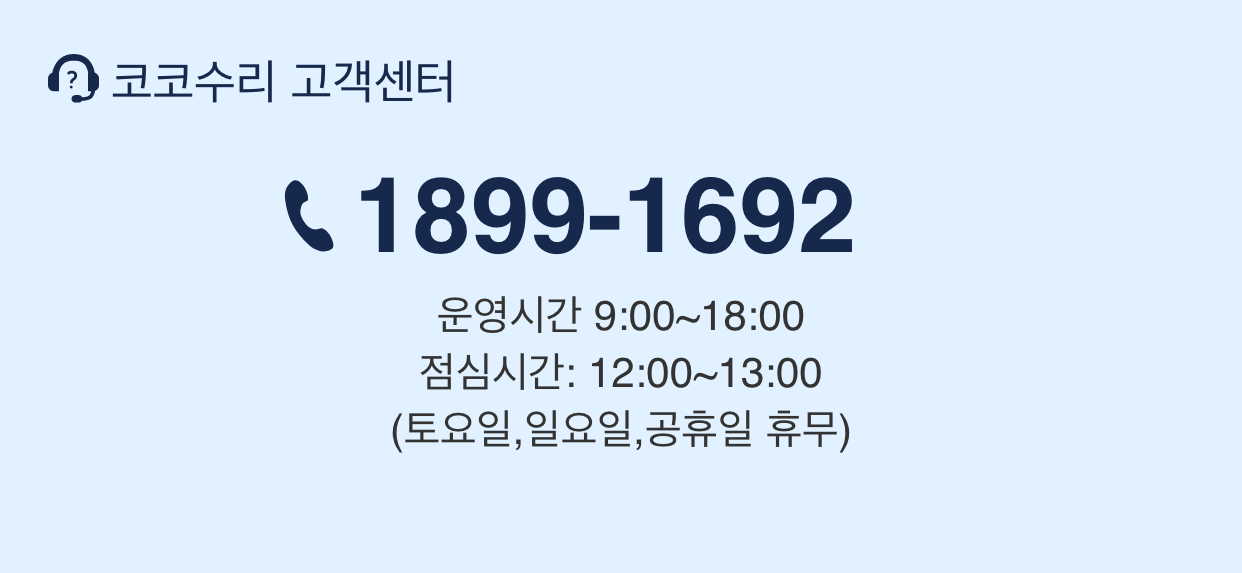
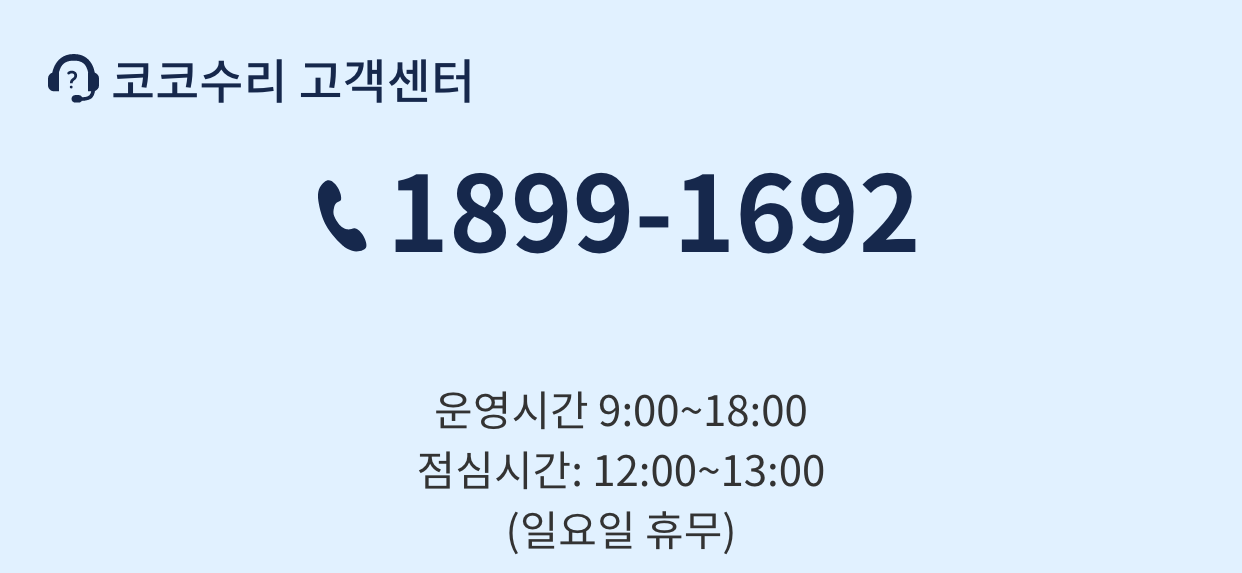
feat: 3/8 수정사항

diff --git a/cokco/desktop/views/index.html b/cokco/desktop/views/index.html
@@ -143,7 +143,7 @@
           <span>전화상담/문의</span>
           <a href="tel:1899-1692">☎1899-1692</a>
         </strong>
-        <span class="open-hour">(월요일~금요일 09:00~18:00)</span>
+        <span class="open-hour"> (월요일~토요일  09:00~18:00) </span>
       </div>
       <div class="fix-item">
         <h2 class="title-more">
@@ -1103,7 +1103,7 @@
           <div class="contact">
             <strong>코코수리 고객센터</strong>
             <a href="tel:1899-1692">1899-1692</a>
-            <span class="time">운영시간: 09:00~1800 점심시간 : 12:00~13:00(토요일,일요일/공휴일 휴무)</span>
+            <span class="time">운영시간: 09:00~1800  점심시간 : 12:00~13:00(일요일 휴무) </span>
           </div>
         </div>
         <div class="company">

diff --git a/cokco/mobile/views/index-m.html b/cokco/mobile/views/index-m.html
@@ -175,7 +175,7 @@
           <span>전화상담/문의</span>
           <a href="tel:1899-1692">☎1899-1692</a>
         </strong>
-        <span class="open-hour">(월요일~금요일 09:00~18:00)</span>
+        <span class="open-hour"> (월요일~토요일  09:00~18:00) </span>
       </div>
       <div class="fix-item">
         <h2 class="title-more">
@@ -1157,7 +1157,7 @@
           <strong>코코수리 고객센터</strong>
           <a href="tel:1899-1692">1899-1692</a>
         </div>
-        <p class="time">운영시간: 09:00~1800 점심시간 : 12:00~13:00(토요일,일요일/공휴일 휴무)</p>
+        <p class="time">운영시간: 09:00~1800  점심시간 : 12:00~13:00(일요일 휴무) </p>
       </div>
       <div class="company">
         <p class="people">

diff --git a/cokco/mobile/styles/cokco/cokco.css b/cokco/mobile/styles/cokco/cokco.css
@@ -3399,7 +3399,7 @@ input[type="checkbox"] + label:before {
     font-size: 12px;
     color: #16284c;
     font-weight: 500;
-    padding: 0  19px;
+    padding: 0 19px;
     border: 1px solid #ccc;
     border-radius: 5px;
 }
@@ -7833,8 +7833,28 @@ input[type="checkbox"] + label:before {
 }
 
 /* customer */
+.customer-banner {
+    position: relative;
+    text-align: center;
+}
+
 .customer-banner img {
     width: 100%;
+}
+
+.customer-banner a {
+    position: absolute;
+    top: 23.43vw;
+    left: 50%;
+    font-size: 3.86vw;
+    line-height: 5.8vw;
+    background-color: #16284C;
+    border: 1px solid #E1F1FF;
+    font-weight: 500;
+    padding: 0 9.66vw;
+    color: #fff;
+    border-radius: 2.42vw;
+    transform: translateX(-50%);
 }
 
 .customer-inquire,

diff --git a/cokco/mobile/styles/cokco/cokco-minimal.css b/cokco/mobile/styles/cokco/cokco-minimal.css
@@ -7840,8 +7840,28 @@ input[type="checkbox"] + label:before {
 }
 
 /* customer */
+.customer-banner {
+    position: relative;
+    text-align: center;
+}
+
 .customer-banner img {
     width: 100%;
+}
+
+.customer-banner a {
+    position: absolute;
+    top: 23.43vw;
+    left: 50%;
+    font-size: 3.86vw;
+    line-height: 5.8vw;
+    background-color: #16284C;
+    border: 1px solid #E1F1FF;
+    font-weight: 500;
+    padding: 0 9.66vw;
+    color: #fff;
+    border-radius: 2.42vw;
+    transform: translateX(-50%);
 }
 
 .customer-inquire,

diff --git a/cokco/mobile/views/inquire-m.html b/cokco/mobile/views/inquire-m.html
@@ -35,7 +35,8 @@
         </button>
       </h1>
       <div class="customer-banner">
-        <img src="../images/cokco/banner-customer.png" alt="">
+          <img src="../images/cokco/banner-customer.png" alt="">
+        <a href="tel:02-1899-1692">고객센터 전화하기</a>
       </div>
       <div class="my-menu-tab">
         <ul>
